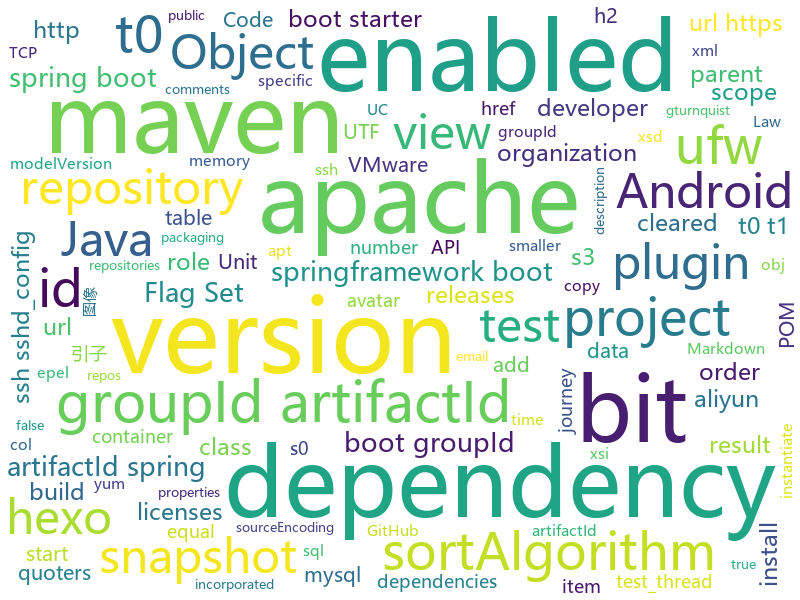
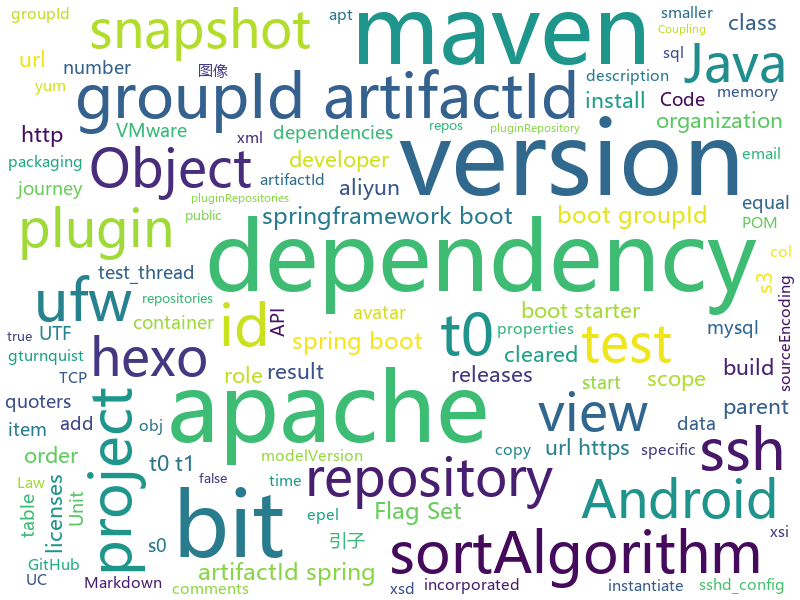
Sync files

diff --git a/index.html b/index.html
@@ -1,4 +1,5 @@
 
+    <!doctype html>
     <head>
     <meta charset="utf-8">
     <meta name="viewport" content="width=device-width, initial-scale=1.0">
@@ -91,13 +92,29 @@
                 .main-content {
                     padding-right: 0; /* 在小屏幕上，移除内边距 */
                 }
-            }</style><div class='container'><div class='sidebar' style='margin:10px;'><ul><p class='title'>NgaiYeanCoi's blog</p><li><a target='_blank' href='https://blog.nyc1.xyz'>https://blog.nyc1.xyz</a></li><p class='title'>残页的小博客</p><li><a target='_blank' href='https://blog.canyie.top'>https://blog.canyie.top</a></li><p class='title'>SMULET's BLOG</p><li><a target='_blank' href='https://simuleite.github.io'>https://simuleite.github.io</a></li><p class='title'>西行妖</p><li><a target='_blank' href='https://my.toho.red'>https://my.toho.red</a></li>
+            }
+</style>
+    </head>
+    <body>
+    <div class="container">
+<div class="sidebar"><ul>
+<p class="title">NgaiYeanCoi's blog</p>
+<li><a target="_blank" href="https://blog.nyc1.xyz">https://blog.nyc1.xyz</a></li>
+<p class="title">残页的小博客</p>
+<li><a target="_blank" href="https://blog.canyie.top">https://blog.canyie.top</a></li>
+<p class="title">SMULET's BLOG</p>
+<li><a target="_blank" href="https://simuleite.github.io">https://simuleite.github.io</a></li>
+<p class="title">西行妖</p>
+<li><a target="_blank" href="https://my.toho.red">https://my.toho.red</a></li>
+
     <a id="Github" target="_blank" href="https://github.com/NgaiYeanCoi/BaiyunUBlogroll">
     <span id="GithubText">GitHub</span><img id="logo-github" src="./images/github.c12ec768.png" alt="Logo">
     </a>
-    </ul></div><div class='main-content'><h2 id="baiyunu-blogroll">BaiyunU Blogroll</h2>
+    </ul></div>
+<div class="main-content">
+<h2 id="baiyunu-blogroll">BaiyunU Blogroll</h2>
 <ul>
-<li>更新时间:2024-10-15 00:19:12</li>
+<li>更新时间:2024-10-15 20:59:17</li>
 </ul>
 <h3 id="-edu"><a href="https://blog.nyc1.xyz/2024/10/07/%E7%99%BD%E4%BA%91%E5%AD%A6%E9%99%A2-%E5%85%B3%E4%BA%8E%E5%A6%82%E4%BD%95%E7%94%B3%E8%AF%B7%E5%AD%A6%E6%A0%A1edu%E9%82%AE%E7%AE%B1/" target="_blank">白云学院-关于如何申请学校edu邮箱</a></h3>
 <p><strong>摘要:</strong> 前言很多同学都不知道教育邮箱、学信网认证有很多隐藏的福利可以省下很多钱，并且许多企业都有推行高校学生权益，你不单止可以免费使用正版软件，还可以以最优惠的价格购买他们的产品。就来让我打破你们的信息差吧！</p>
@@ -571,4 +588,8 @@
 <h3 id="_30"><a href="https://my.toho.red/posts/4/" target="_blank">如何用阿里云服务器开一个我的世界皮肤站</a></h3>
 <p><strong>摘要:</strong> 2021/12/19更新：阿里云学生机促销没了，可以看看ucloud的新用户优惠，一年最低50块钱（我没有收对面推广费） 链接：www.ucl</p>
 <p><strong>作者:</strong> 西行妖
-<strong>发表时间:</strong> </p></div></div></head>
+<strong>发表时间:</strong> </p>
+</div>
+</div>
+</div>
+    </body>

diff --git a/main.py b/main.py
@@ -11,7 +11,7 @@ import time
 import markdown
 from markdown.extensions.toc import TocExtension
 from bs4 import BeautifulSoup
-#from wordcloud import WordCloud
+from wordcloud import WordCloud
 
 
 
@@ -23,34 +23,34 @@ blogUrl = [
         # 在此输入可以添加更多博客的RSS链接
     ]
 
-jsonFilename="./config.json"
 
 def creatWordCloud():
     """
+    词云
     :return:
     """
-    #读取摘要信息
-    txt=""
-    with open (jsonFilename,'r' , encoding='utf-8') as f:
+    jsonFilename = "./config.json"
+    # 读取摘要信息
+    txt = ""
+    with open(jsonFilename, 'r', encoding='utf-8') as f:
         entries = json.load(f)
+    for entry in entries:
+        txt += f"{entry['summary']}"
     with open("./stopwords/cn_stopwords.txt", 'r', encoding='utf-8') as f:
         stopwordsFile = set(f.read().splitlines())
-    #print(stopwordsFile)
-    for entry in entries:
-        txt = txt+f"{entry['summary']}\n"
-    #print(txt)
-    wordcloud=WordCloud(font_path="./Fonts/msyh.ttc", width=800, height=600, margin=10,
-          ranks_only=None, prefer_horizontal=0.95, mask=None, scale=1,
-          color_func=None, max_words=200, min_font_size=10,
-          stopwords=stopwordsFile, random_state=82, background_color='white',
-          max_font_size=100, font_step=2, mode="RGBA",
-          relative_scaling='auto', regexp=None, collocations=True,
-          colormap='viridis', normalize_plurals=True, contour_width=1,
-          contour_color='steelblue', repeat=False,
-          include_numbers=False, min_word_length=2, collocation_threshold=30) # 创建词云实例对象
-    wordcloud.generate(txt)# 加载文本内容到词云对象中
-    wordcloud.to_file("wordcloud.png")# 将图像以定义的图像文件名输出
-
+    # print(stopwordsFile)
+    # print(txt)
+    wordcloud = WordCloud(font_path="./Fonts/msyh.ttc", width=800, height=600, margin=10,
+                          ranks_only=None, prefer_horizontal=0.95, mask=None, scale=1,
+                          color_func=None, max_words=200, min_font_size=10,
+                          stopwords=stopwordsFile, random_state=88, background_color='white',
+                          max_font_size=100, font_step=2, mode="RGBA",
+                          relative_scaling='auto', regexp=None, collocations=True,
+                          colormap='viridis', normalize_plurals=True, contour_width=1,
+                          contour_color='steelblue', repeat=False,
+                          include_numbers=False, min_word_length=2, collocation_threshold=30)  # 创建词云实例对象
+    wordcloud.generate(txt)  # 加载文本内容到词云对象中
+    wordcloud.to_file("wordcloud.png")  # 将图像以定义的图像文件名输出
 
 
 def getUrlTitle(url):
@@ -72,6 +72,7 @@ def getUrlTitle(url):
     except requests.RequestException as e:
         return f"Error: {e}"
 
+
 def convertMDtoHTML():
     """
     将config.json文件转换成HTML
@@ -83,6 +84,7 @@ def convertMDtoHTML():
     with open(jsonFilename, 'r', encoding='utf-8') as f:
         entries = json.load(f)
     head = """
+    <!doctype html>
     <head>
     <meta charset="utf-8">
     <meta name="viewport" content="width=device-width, initial-scale=1.0">
@@ -92,47 +94,54 @@ def convertMDtoHTML():
     with open("./index.css", 'r', encoding='utf-8') as f:
         css = f.read()
     # 侧边栏内容
-    Github="""
+    Github = """
     <a id="Github" target="_blank" href="https://github.com/NgaiYeanCoi/BaiyunUBlogroll">
     <span id="GithubText">GitHub</span><img id="logo-github" src="./images/github.c12ec768.png" alt="Logo">
     </a>
     """
-    sidebarContent = "<div class='sidebar' style='margin:10px;'><ul>"
+    sidebarContent = "<div class=\"sidebar\"><ul>\n"
     for url in blogUrl:
         title = getUrlTitle(url)
         path = url
-        path=path.split('/')
-        sidebarContent += f"<p class='title'>{title}</p>"
-        sidebarContent += f"<li><a target='_blank' href='https://{path[2]}'>https://{path[2]}</a></li>"
+        path = path.split('/')
+        sidebarContent += f"<p class=\"title\">{title}</p>\n"
+        sidebarContent += f"<li><a target=\"_blank\" href=\"https://{path[2]}\">https://{path[2]}</a></li>\n"
     sidebarContent += f"{Github}</ul></div>"
 
     # Markdown内容
     markdownContent = f"# BaiyunU Blogroll\n\n - 更新时间:{currentTime}\n\n"
     for entry in entries:
         markdownContent += f"## <a href=\"{entry['url']}\" target=\"_blank\">{entry['title']}</a>\n"
-        #markdownContent += f"## [{entry['title']}]({entry['url']})\n"
+        # markdownContent += f"## [{entry['title']}]({entry['url']})\n"
         markdownContent += f"**摘要:** {entry['summary']}\n\n"
         markdownContent += f"**作者:** {entry['author']}\n"
         markdownContent += f"**发表时间:** {entry['published']}\n"
         if entry['updated']:
             markdownContent += f"**更新时间:** {entry['updated']}\n"
         markdownContent += "\n"
+    markdownContent +="\n</div>"
     # 转换Markdown为HTML
     htmlContent = markdown.markdown(markdownContent, extensions=[TocExtension(baselevel=2)])
     # 合并CSS样式、侧边栏和HTML内容
-    finalHtmlContent = f"{head}{css}</style><div class='container'>{sidebarContent}<div class='main-content'>{htmlContent}</div></div></head>"
+    finalHtmlContent = f"""{head}{css}\n</style>
+    </head>
+    <body>
+    <div class="container">\n{sidebarContent}\n<div class="main-content">\n{htmlContent}\n</div>\n</div>
+    </body>"""
 
     with open(htmlFilename, 'w', encoding='utf-8') as f:
         f.write(finalHtmlContent)
+
 
 def convertMD():
     """
     将config.json文件转换成markdown
     :return:
     """
-    currentTime = time.strftime('%Y-%m-%d %H:%M:%S', time.localtime()) #获取当前时间
-    markdownFilename= "./summary.md"
-    with open (jsonFilename,'r' , encoding='utf-8') as f:
+    jsonFilename = "./config.json"
+    currentTime = time.strftime('%Y-%m-%d %H:%M:%S', time.localtime())  # 获取当前时间
+    markdownFilename = "./summary.md"
+    with open(jsonFilename, 'r', encoding='utf-8') as f:
         entries = json.load(f)
     markdownContent = f"# BaiyunU Blogroll\n\n - 更新时间:{currentTime}\n\n"
     for entry in entries:
@@ -146,6 +155,7 @@ def convertMD():
     with open(markdownFilename, 'w', encoding='utf-8') as f:
         f.write(markdownContent)
 
+
 def checkWebsite(url):
     """
     判断网页访问是否正常&&判断XML是否有效
@@ -156,11 +166,12 @@ def checkWebsite(url):
     try:
         if response.status_code == 200:
             pass
-            root=ET.fromstring(response.content)
+            root = ET.fromstring(response.content)
         else:
             raise requests.RequestException(f"{url}请求的网站访问错误")
     except ET.ParseError:
         raise ET.ParseError(f"{url}XML文件解析错误")
+
 
 def fetchBlogEntries(blogFeedUrls):
     """
@@ -171,7 +182,7 @@ def fetchBlogEntries(blogFeedUrls):
     allEntries = []
     for blogFeedUrl in blogFeedUrls:
         print(f"正在写入{blogFeedUrl}中...")
-        feedData = feedparser.parse(blogFeedUrl) #解析RSS
+        feedData = feedparser.parse(blogFeedUrl)  # 解析RSS
         authorName = feedData.feed.get('author', getUrlTitle(blogFeedUrl))  # 获取作者信息
         entries = feedparser.parse(blogFeedUrl)["entries"]
         for entry in entries:
@@ -187,19 +198,20 @@ def fetchBlogEntries(blogFeedUrls):
             })
     return sorted(allEntries, key=lambda x: x['updated'], reverse=True)
 
+
 def main():
     global blogUrl
     for check in blogUrl:
         checkWebsite(check)
     jsonFilename = "./config.json"
     entries = fetchBlogEntries(blogUrl)
-    with open(jsonFilename, "w", encoding="utf-8") as f:  #将RSS解析之后将感兴趣的内容后写入到config.json文件中
+    with open(jsonFilename, "w", encoding="utf-8") as f:  # 将RSS解析之后将感兴趣的内容后写入到config.json文件中
         json.dump(entries, f, ensure_ascii=False, indent=4)
         print('写入完成')
 
+
 if __name__ == '__main__':
-    main()
-    convertMD()
+    #main()
+    #convertMD()
     convertMDtoHTML()
     #creatWordCloud()
-
